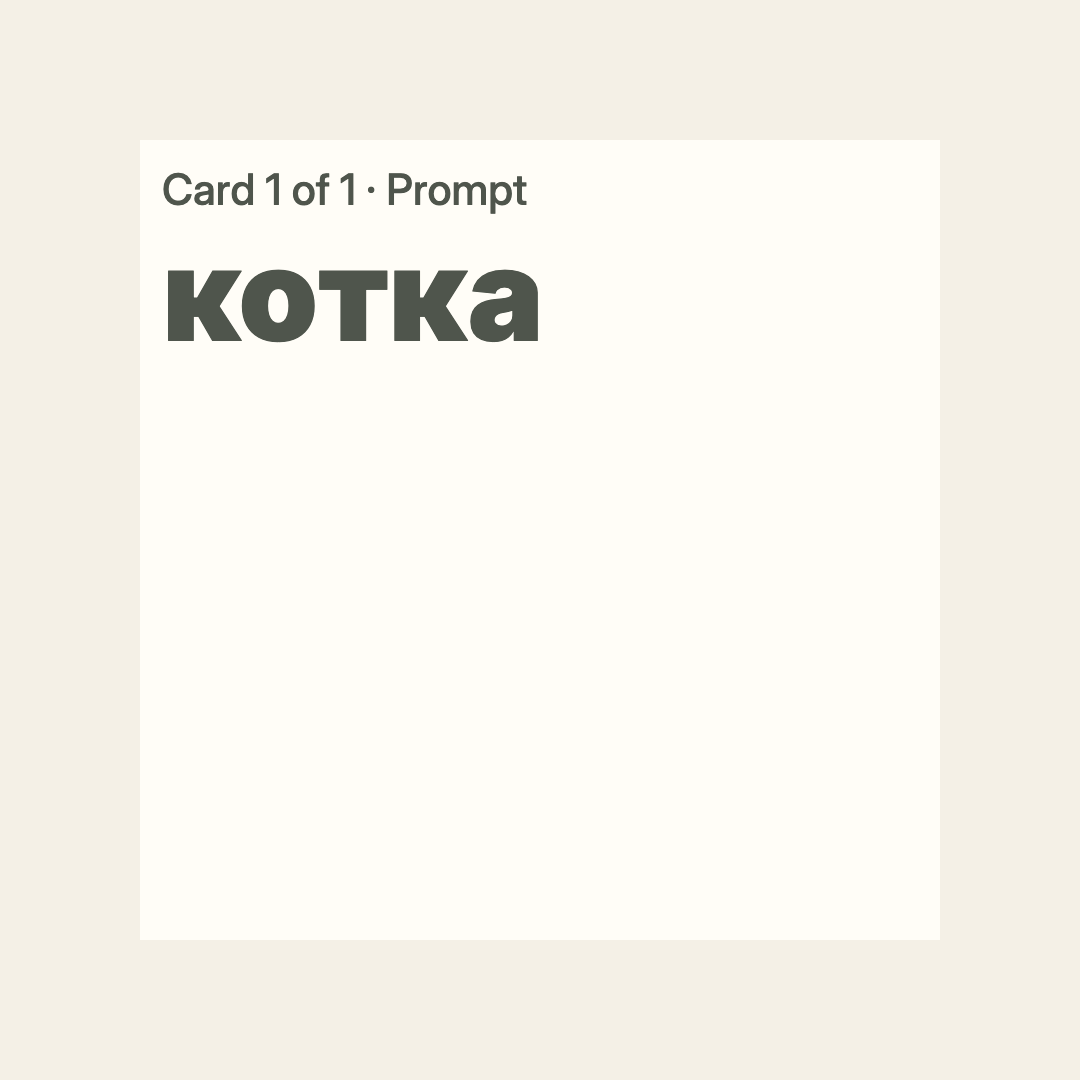
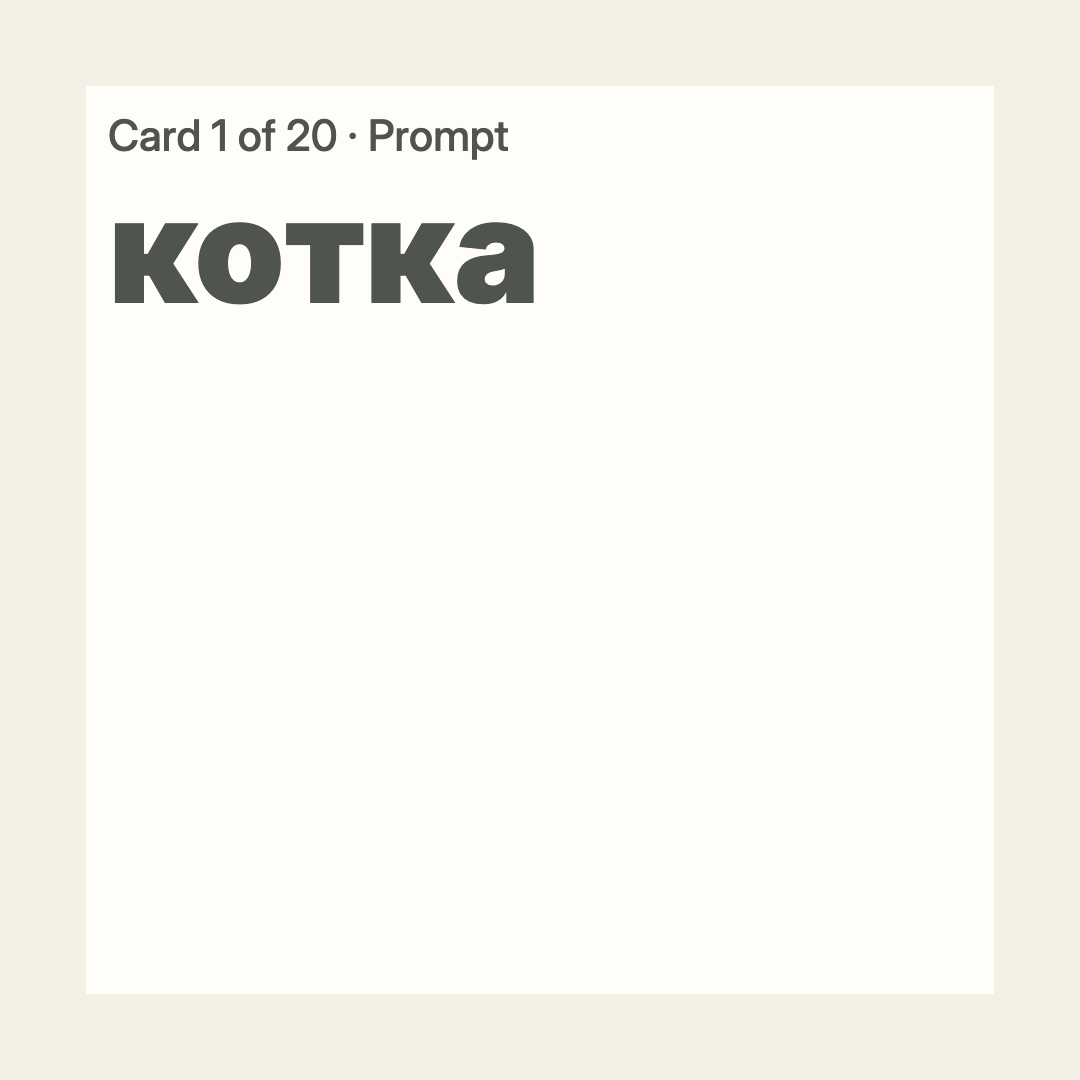
Show example cards with their real position and re-render pack previews
Every activity's example picture read "Card 1 of 1" because the preview
used a one-card window; the 21 previews are re-rendered with the whole
activity. The README now says Tell the Time is the approved, included
activity and the others remain preview material.

Changed region(s): [[0.0917, 0.0917, 0.5194, 0.3361]]

diff --git a/README.md b/README.md
@@ -55,9 +55,11 @@ What Mantel includes is what a new household needs on day one without an account
 source (a market watchlist needs the Stocks key). The host build adds the last rule: the
 included previews total at most 3 MB.
 
-The activity sources are **preview material**, awaiting human content, language and
-listening review. A build or a signature is not a content endorsement. The source seed
-and tool release do not publish a new catalog to household hosts.
+Tell the Time is the one approved activity: the owner reviewed its content and Bulgarian, and
+it is included with Mantel. The other activity sources are **preview material**, awaiting human
+content, language and listening review (`reviews.json` says which). A build or a signature is
+not a content endorsement. The source seed and tool release do not publish a new catalog to
+household hosts.
 
 ### Collections
 
